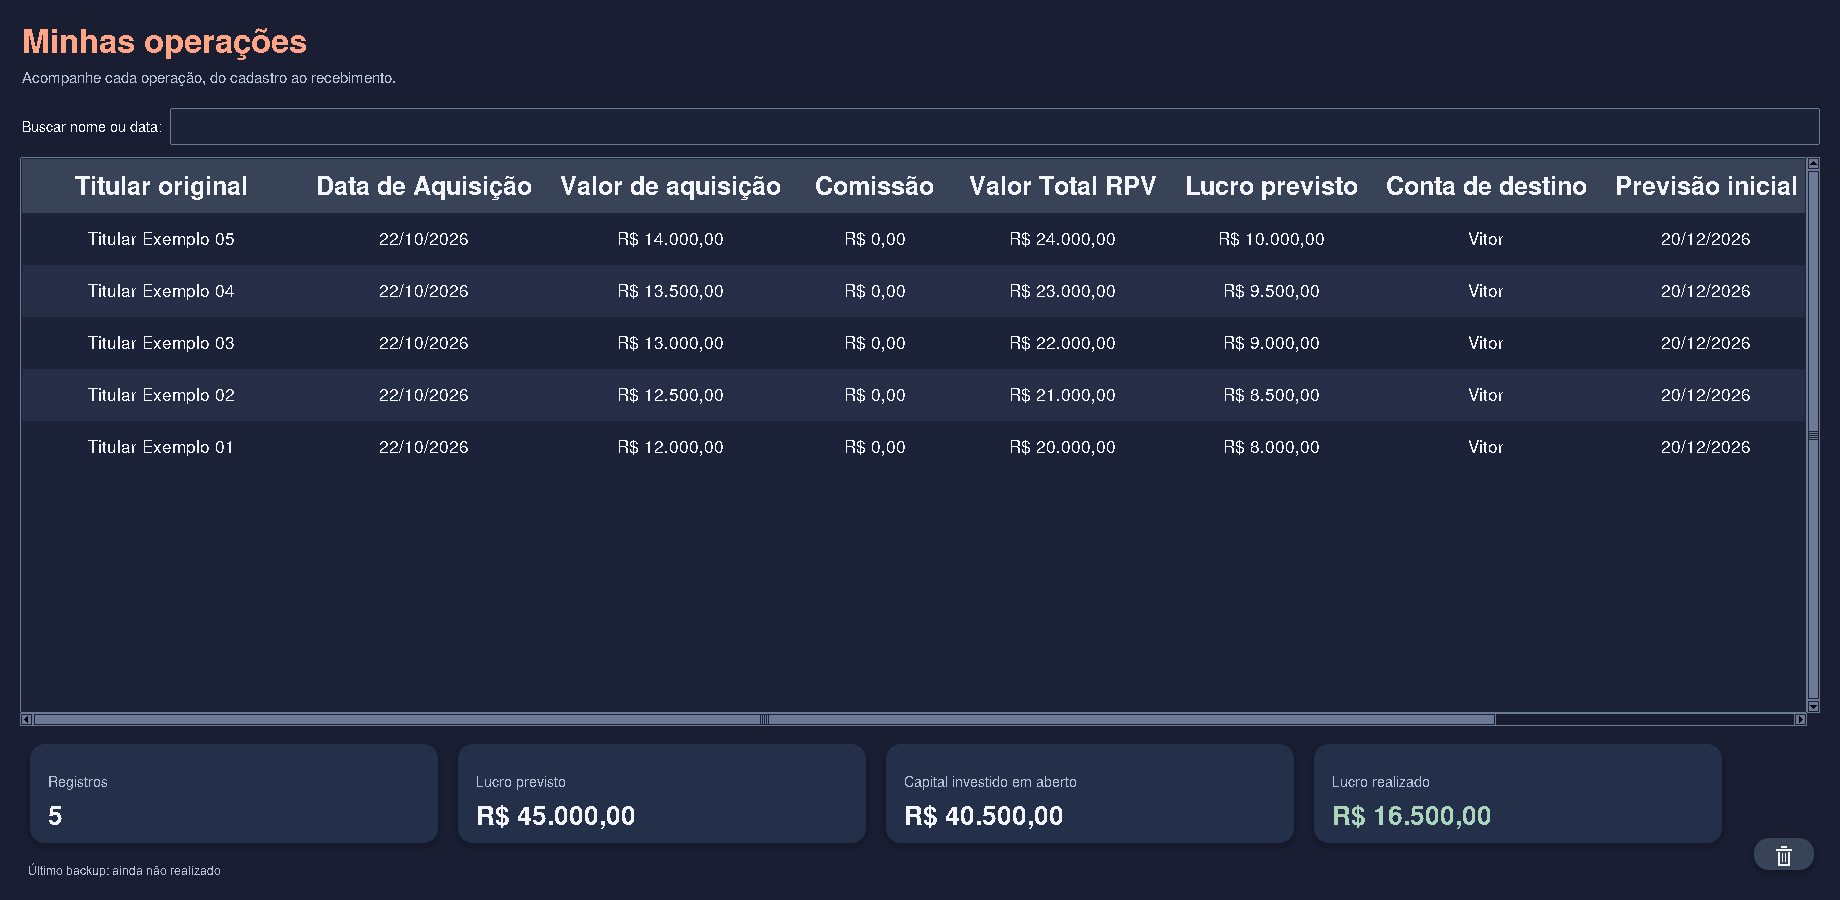
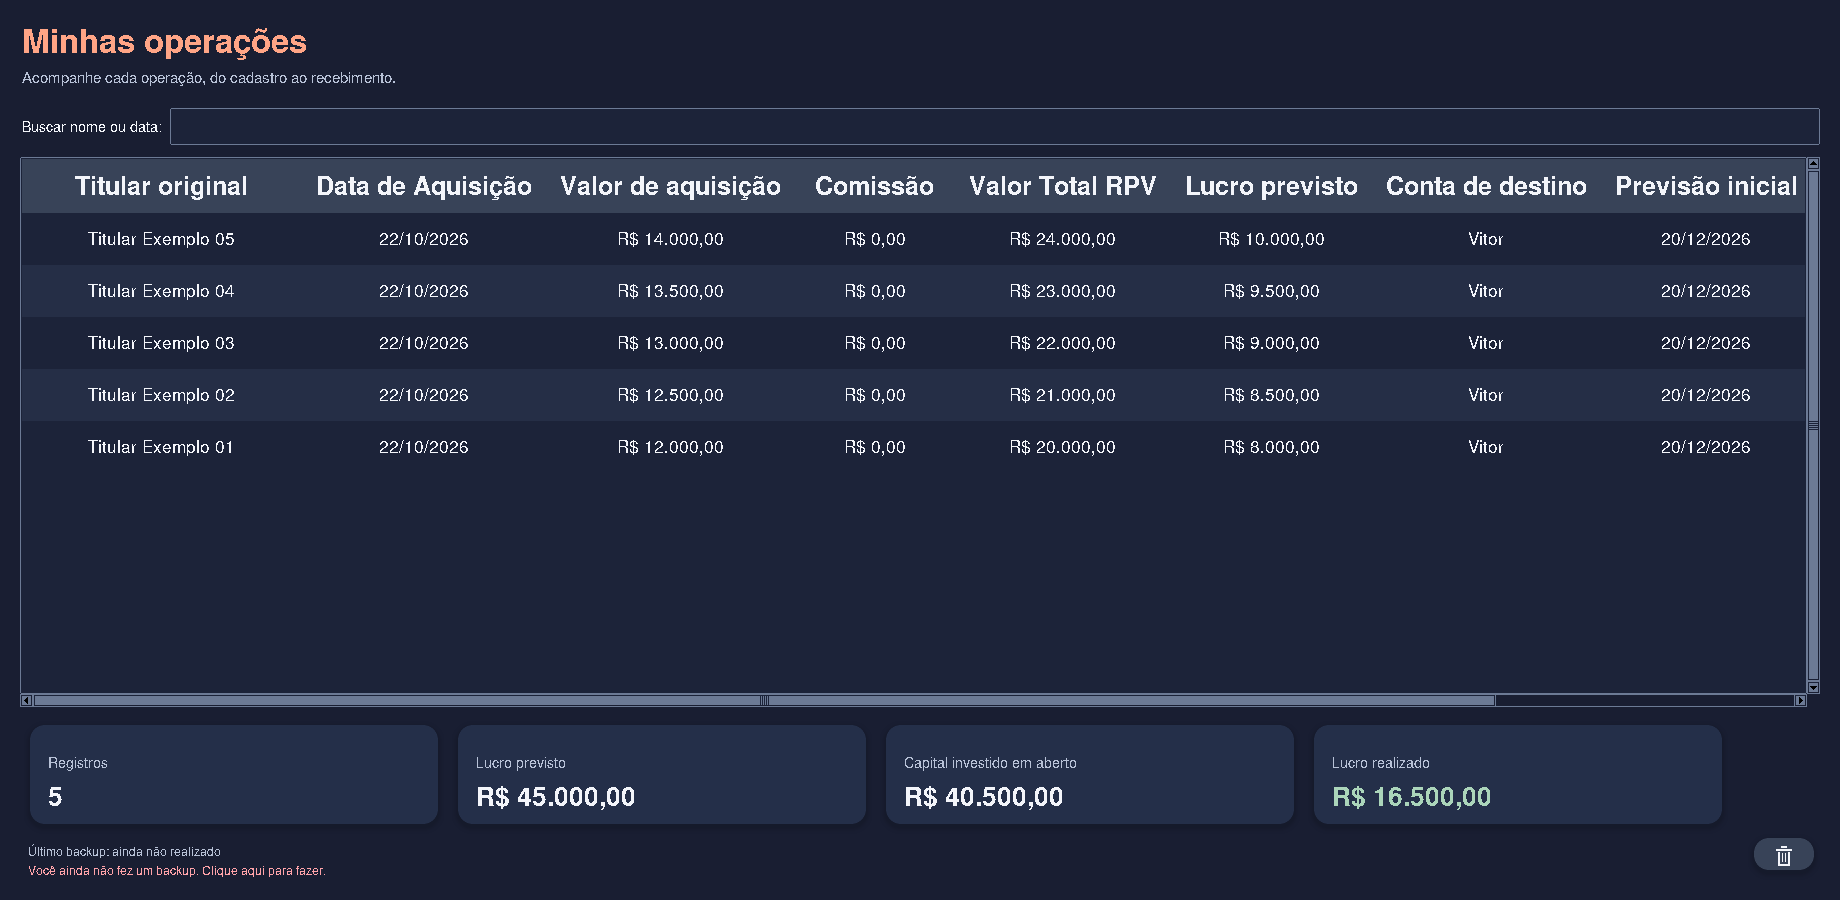
Adiciona lembrete de backup e acesso à pasta de documentos na versão 0.17.0

diff --git a/app.py b/app.py
@@ -12,10 +12,10 @@ from versao import VERSAO
 from tema import cores, definir_modo, atualizar_widgets
 from visual import aplicar_superficies, familia_fonte, Icone, icone_tema
 from calculadora import JanelaCalculadora
-from backup import criar_backup, BackupPreparado
+from backup import criar_backup, BackupPreparado, aviso_backup
 from ordenacao import ordenar
 from selecao import habilitar_selecao, pressionar_linha, arrastar
-from documentos import validar_anexo, abrir_arquivo
+from documentos import validar_anexo, abrir_arquivo, abrir_pasta
 from interacao import instalar_menu_texto, aplicar_formato, capitalizar_inicio, menu_copia, novo_menu, mostrar_menu, copiar_texto
 
 
@@ -65,11 +65,18 @@ class Aplicativo:
         self.colunas_inicio = None
         self.grade_inicio.bind('<Configure>',self.organizar_inicio)
         ttk.Frame(inicio).pack(fill='both',expand=True)
+        self.texto_aviso_backup = tk.StringVar()
+        self.aviso_backup_inicio = ttk.Label(inicio,textvariable=self.texto_aviso_backup,
+            style='BackupAviso.TLabel',cursor='hand2',wraplength=760)
+        self.aviso_backup_inicio.pack(anchor='w',pady=(10,0))
+        self.aviso_backup_inicio.bind('<Button-1>',lambda _: self.exportar_backup())
         rodape_inicio = ttk.Frame(inicio)
         rodape_inicio.pack(fill='x',pady=(22,0))
         ttk.Button(rodape_inicio,text='Sair',command=janela.destroy,width=12).pack(side='left')
         ttk.Label(rodape_inicio,text=f'Vitoran Tech · v{VERSAO}',style='Discreto.TLabel').pack(side='right')
         self.atualizar_alternador_tema()
+        self.atualizar_ultimo_backup()
+        janela.bind('<FocusIn>',self.atualizar_backup_ao_ativar,add='+')
         centralizar(janela, 1480, 980)
         janela.deiconify()
 
@@ -134,6 +141,7 @@ class Aplicativo:
         arquivo.add_separator()
         arquivo.add_command(label='Fazer backup', command=self.exportar_backup)
         arquivo.add_command(label='Importar dados', command=self.importar_dados)
+        arquivo.add_command(label='Abrir pasta dos documentos', command=self.abrir_pasta_documentos)
         arquivo.add_separator()
         arquivo.add_command(label='Fechar operações', command=self.historico.destroy)
         editar = novo_menu(barra)
@@ -197,6 +205,7 @@ class Aplicativo:
                 ('ResumoValor.TLabel',19,'bold',texto),('ResumoRealizado.TLabel',19,'bold',c['verde'])):
                 estilo.configure(nome,background=c['superficie'],font=(fonte,tamanho,peso),foreground=cor)
             estilo.configure('DataCalculada.TLabel',background=fundo,font=(fonte,10,'bold'))
+            estilo.configure('BackupAviso.TLabel',background=fundo,foreground=c['vermelho'],font=(fonte,9))
             estilo.map('DataCalculada.TLabel',background=[('disabled',fundo),('!disabled',fundo)],foreground=[('disabled',c['desabilitado']),('!disabled',texto)])
             estilo.configure('Dinheiro.TFrame',background=campo)
             estilo.configure('Dinheiro.TLabel',background=campo)
@@ -332,12 +341,16 @@ class Aplicativo:
         self.desenhar_icone_lixeira()
         self.botao_lixeira = ttk.Button(rodape, text='Lixeira', image=self.icone_lixeira, compound='image',
                                        width=3, command=self.mostrar_lixeira)
-        self.botao_lixeira.grid(row=0,column=1,rowspan=2,sticky='se',padx=(16,0))
+        self.botao_lixeira.grid(row=0,column=1,rowspan=3,sticky='se',padx=(16,0))
         self.texto_ultimo_backup=tk.StringVar()
         ttk.Label(rodape,textvariable=self.texto_ultimo_backup,style='Discreto.TLabel').grid(row=1,column=0,sticky='w',padx=6,pady=(8,0))
+        aviso = ttk.Label(rodape,textvariable=self.texto_aviso_backup,style='BackupAviso.TLabel',cursor='hand2',wraplength=760)
+        aviso.grid(row=2,column=0,sticky='w',padx=6)
+        aviso.bind('<Button-1>',lambda _: self.exportar_backup())
         self.historico.bind('<Control-f>',lambda _: entrada_busca.focus_set())
         self.historico.bind('<Control-n>',lambda _: self.formulario())
         self.historico.bind('<F5>',lambda _: self.atualizar())
+        self.historico.bind('<FocusIn>',self.atualizar_backup_ao_ativar,add='+')
         self.atualizar()
         centralizar(self.historico, 1100, 650)
         self.historico.deiconify()
@@ -360,9 +373,19 @@ class Aplicativo:
             for valor in cartao.winfo_children()[1:]:
                 valor.configure(wraplength=largura)
 
+    def atualizar_backup_ao_ativar(self,evento):
+        if evento.widget is self.janela or evento.widget is self.historico:
+            self.atualizar_ultimo_backup()
+
     def atualizar_ultimo_backup(self):
         quando=self.banco.ultimo_backup()
-        self.texto_ultimo_backup.set('Último backup: '+(datetime.fromisoformat(quando).strftime('%d/%m/%Y') if quando else 'ainda não realizado'))
+        self.texto_aviso_backup.set(aviso_backup(quando))
+        try:
+            data = datetime.fromisoformat(quando).astimezone().strftime('%d/%m/%Y') if quando else 'ainda não realizado'
+        except (ValueError,TypeError):
+            data = 'não disponível'
+        if hasattr(self,'texto_ultimo_backup'):
+            self.texto_ultimo_backup.set('Último backup: '+data)
 
     def atualizar(self):
         if self.historico is None or not self.historico.winfo_exists():
@@ -414,16 +437,27 @@ class Aplicativo:
         self.atualizar()
 
     def exportar_backup(self):
-        pasta = filedialog.askdirectory(parent=self.historico, title='Escolha onde salvar o backup')
+        pai = self.historico if self.historico is not None and self.historico.winfo_exists() else self.janela
+        pasta = filedialog.askdirectory(parent=pai, title='Escolha onde salvar o backup')
         if not pasta:
             return
         try:
             arquivo = criar_backup(self.banco, pasta)
         except (OSError, sqlite3.Error, ValueError) as erro:
-            messagebox.showerror('Backup', 'Não foi possível criar o backup. ' + str(erro), parent=self.historico)
+            messagebox.showerror('Backup', 'Não foi possível criar o backup. ' + str(erro), parent=pai)
             return
         self.atualizar_ultimo_backup()
-        messagebox.showinfo('Backup concluído', f'Backup salvo em:\n{arquivo}', parent=self.historico)
+        messagebox.showinfo('Backup concluído', f'Backup salvo em:\n{arquivo}', parent=pai)
+
+    def abrir_pasta_documentos(self):
+        pai = self.historico if self.historico is not None and self.historico.winfo_exists() else self.janela
+        try:
+            pasta = self.banco.caminho.parent / 'documentos'
+            pasta.mkdir(parents=True,exist_ok=True)
+            abrir_pasta(pasta)
+        except (OSError,ValueError) as erro:
+            messagebox.showerror('Abrir pasta dos documentos',
+                'Não foi possível abrir a pasta dos documentos. ' + str(erro),parent=pai)
 
     def importar_dados(self):
         arquivo = filedialog.askopenfilename(parent=self.historico, title='Importar backup do Gestor de RPV',

diff --git a/test_interface.py b/test_interface.py
@@ -1168,6 +1168,50 @@ class TestInterface(unittest.TestCase):
         self.assertIsNone(self.banco.obter(identificador)['conta_id'])
         self.assertEqual(self.banco.obter(identificador)['conta_snapshot'],copia)
 
+    def test_lembrete_backup_no_inicio_e_historico_ate_exportar(self):
+        self.assertIn('ainda não fez',self.programa.texto_aviso_backup.get())
+        with patch.object(app.filedialog,'askdirectory',return_value=''):
+            self.programa.exportar_backup()
+        self.assertIn('ainda não fez',self.programa.texto_aviso_backup.get())
+        self.banco.registrar_backup('2020-01-01T12:00:00')
+        self.root.event_generate('<FocusIn>')
+        self.root.update()
+        self.assertIn('dias sem backup',self.programa.texto_aviso_backup.get())
+        self.programa.mostrar_historico()
+        self.root.update()
+        self.assertIn('dias sem backup',self.programa.texto_aviso_backup.get())
+        destino=str(Path(self.pasta.name)/'exportados')
+        with patch.object(app.filedialog,'askdirectory',return_value=destino),patch.object(app.messagebox,'showerror'),patch.object(app,'criar_backup',side_effect=OSError('Sem espaço')):
+            self.programa.exportar_backup()
+        self.assertIn('dias sem backup',self.programa.texto_aviso_backup.get())
+        self.programa.historico.destroy()
+        with patch.object(app.filedialog,'askdirectory',return_value=destino),patch.object(app.messagebox,'showinfo'):
+            self.programa.aviso_backup_inicio.event_generate('<Button-1>')
+            self.root.update()
+        self.assertEqual(self.programa.texto_aviso_backup.get(),'')
+        self.assertTrue(list(Path(destino).glob('*.rpvbackup')))
+        self.programa.mostrar_historico()
+        self.root.update()
+        self.assertEqual(self.programa.texto_aviso_backup.get(),'')
+
+    def test_menu_abre_pasta_documentos_sem_alterar_anexos(self):
+        from test_contas import dados_rpv
+        self.programa.mostrar_historico()
+        pasta=self.banco.caminho.parent/'documentos'
+        self.assertFalse(pasta.exists())
+        with patch.object(app,'abrir_pasta') as abrir:
+            self.programa.menus['Arquivo'].invoke('Abrir pasta dos documentos')
+        abrir.assert_called_once_with(pasta)
+        self.assertTrue(pasta.is_dir())
+        pdf=Path(self.pasta.name)/'contrato.pdf'
+        pdf.write_bytes(b'%PDF-exemplo')
+        i=self.banco.salvar(dados_rpv(),anexos=[pdf])
+        documento=self.banco.documentos(i)[0]
+        with patch.object(app,'abrir_pasta',side_effect=OSError('Explorador indisponível')),patch.object(app.messagebox,'showerror') as erro:
+            self.programa.menus['Arquivo'].invoke('Abrir pasta dos documentos')
+        erro.assert_called_once()
+        self.assertEqual(self.banco.caminho_documento(documento['id']).read_bytes(),b'%PDF-exemplo')
+
     def test_fontes_indicadores_previsao_e_ultimo_backup_na_interface(self):
         from test_contas import dados_rpv
         identificador=self.banco.salvar(dados_rpv())

diff --git a/test_lembrete_backup.py b/test_lembrete_backup.py
@@ -1,0 +1,26 @@
+"""Limite semanal e datas do lembrete de backup."""
+import unittest
+from datetime import date
+
+from backup import aviso_backup
+
+
+class TestLembreteBackup(unittest.TestCase):
+    def test_primeiro_backup_e_data_invalida(self):
+        self.assertIn('ainda não fez', aviso_backup(None))
+        self.assertIn('indisponível', aviso_backup('data inválida'))
+
+    def test_limite_de_sete_dias_e_virada_do_mes(self):
+        quando = '2026-10-28T12:00:00'
+        self.assertEqual(aviso_backup(quando, date(2026, 11, 3)), '')
+        self.assertIn('7 dias', aviso_backup(quando, date(2026, 11, 4)))
+        self.assertIn('8 dias', aviso_backup(quando, date(2026, 11, 5)))
+
+    def test_backup_recente_ou_relogio_atrasado(self):
+        quando = '2026-10-28T12:00:00'
+        self.assertEqual(aviso_backup(quando, date(2026, 10, 28)), '')
+        self.assertEqual(aviso_backup(quando, date(2026, 10, 27)), '')
+
+
+if __name__ == '__main__':
+    unittest.main()

diff --git a/backup.py b/backup.py
@@ -8,13 +8,29 @@ import sqlite3
 import stat
 import tempfile
 import time
-from datetime import datetime
+from datetime import date, datetime
 from zipfile import ZipFile, ZIP_DEFLATED, BadZipFile
 
 from versao import VERSAO
 
 
 FORMATO = 'gestor-rpv-backup'
+
+
+def aviso_backup(quando, hoje=None):
+    """Lembrete sem interromper o uso; um backup recente dispensa o aviso."""
+    if not quando:
+        return 'Você ainda não fez um backup. Clique aqui para fazer.'
+    try:
+        data_backup = datetime.fromisoformat(quando)
+        if data_backup.tzinfo is not None:
+            data_backup = data_backup.astimezone()
+    except (TypeError, ValueError):
+        return 'Data do último backup indisponível. Clique aqui para fazer um novo.'
+    dias = ((hoje or date.today()) - data_backup.date()).days
+    if dias >= 7:
+        return f'Há {dias} dias sem backup. Clique aqui para fazer um novo.'
+    return ''
 
 
 def hash_arquivo(caminho):

diff --git a/documentos.py b/documentos.py
@@ -16,6 +16,17 @@ def validar_anexo(caminho):
 
 def abrir_arquivo(caminho):
     caminho = validar_anexo(caminho)
+    _abrir_no_sistema(caminho)
+
+
+def abrir_pasta(caminho):
+    caminho = Path(caminho).resolve()
+    if not caminho.is_dir():
+        raise ValueError('A pasta de documentos não está disponível neste computador.')
+    _abrir_no_sistema(caminho)
+
+
+def _abrir_no_sistema(caminho):
     if os.name == 'nt':
         os.startfile(str(caminho))
     elif sys.platform == 'darwin':

diff --git a/versao.py b/versao.py
@@ -1,2 +1,2 @@
 """Versão da entrega publicada no GitHub com a tag correspondente."""
-VERSAO = '0.16.3'
+VERSAO = '0.17.0'

diff --git a/README.md b/README.md
@@ -1,4 +1,4 @@
-# Gestor de RPV — 0.16.3
+# Gestor de RPV — 0.17.0
 
 Aplicativo pessoal para Windows, em Python com Tkinter e SQLite. Cada computador
 mantém seus próprios dados, sem servidor ou sincronização. Não exige pacotes extras.
@@ -14,7 +14,7 @@ python app.py
 
 Mantenha `app.py`, `dados.py`, `componentes.py`, `contas.py`, `interacao.py`, `tema.py`, `calculadora.py`, `backup.py`, `ordenacao.py`, `selecao.py`, `documentos.py`, `visual.py` e `versao.py` juntos.
 A tela inicial tem os botões **Nova entrada**, **Minhas operações**,
-**Contas de recebimento** e **Sair**. A assinatura **Vitoran Tech · v0.16.3** aparece no canto inferior direito.
+**Contas de recebimento** e **Sair**. A assinatura **Vitoran Tech · v0.17.0** aparece no canto inferior direito.
 O número é lido da versão do programa e acompanha cada atualização.
 As janelas abrem centralizadas; o histórico abre maximizado no Windows.
 
@@ -186,6 +186,12 @@ O ícone de **lixeira** continua sozinho no canto inferior direito.
 No rodapé aparece **Último backup: dd/mm/aaaa**, atualizado após a gravação
 de um arquivo de backup. Antes do primeiro, aparece “ainda não realizado”.
 
+A tela inicial e Minhas operações mostram um lembrete discreto quando ainda não
+houver backup ou quando o último tiver sido feito há **sete dias ou mais**.
+Clique no aviso para escolher a pasta e fazer um backup. Ele desaparece após a
+gravação bem-sucedida; cancelar ou ocorrer uma falha mantém o lembrete.
+O prazo é recalculado ao abrir ou voltar às janelas principais, sem interromper o uso.
+
 1. Clique em **Arquivo → Fazer backup** e escolha uma pasta do Windows.
 2. O programa salva um arquivo `GestorRPV-data-hora.rpvbackup`.
 3. No outro computador, abra o aplicativo e escolha **Arquivo → Importar dados**.
@@ -205,6 +211,10 @@ durante a troca, os documentos anteriores são recuperados e a cópia de seguran
 
 ## Documentos da entrada
 
+- **Arquivo → Abrir pasta dos documentos**, em Minhas operações, abre o Explorador
+  de Arquivos na pasta `%LOCALAPPDATA%\GestorRPV\documentos`. A pasta é criada
+  automaticamente caso ainda não existam anexos. Contratos/protocolos ficam
+  nas subpastas de cada entrada; comprovantes bancários ficam em `recebimentos`.
 - Em **Nova entrada** ou **Editar**, clique em **Anexar documentos** e selecione
   um ou vários PDFs ou imagens (PNG, JPEG, WebP, BMP, GIF e TIFF).
 - Ao manter o mouse sobre **Anexar documentos**, um balão explica que o botão

diff --git a/CHANGELOG.md b/CHANGELOG.md
@@ -1,5 +1,12 @@
 # Histórico de versões
 
+## 0.17.0
+
+- Lembrete discreto de backup no início e em Minhas operações: aparece antes do primeiro backup ou após sete dias sem realizar um.
+- Clique no lembrete para escolher a pasta e fazer o backup; o aviso desaparece somente após a gravação bem-sucedida.
+- Lembrete recalculado ao abrir ou voltar às janelas principais, sem avisos modais.
+- Arquivo → Abrir pasta dos documentos abre o explorador na pasta dos anexos, preservando a separação entre entradas e recebimentos.
+
 ## 0.16.3
 
 - Modos claro e escuro renovados com azul profundo, pêssego, vermelho e vinho.
